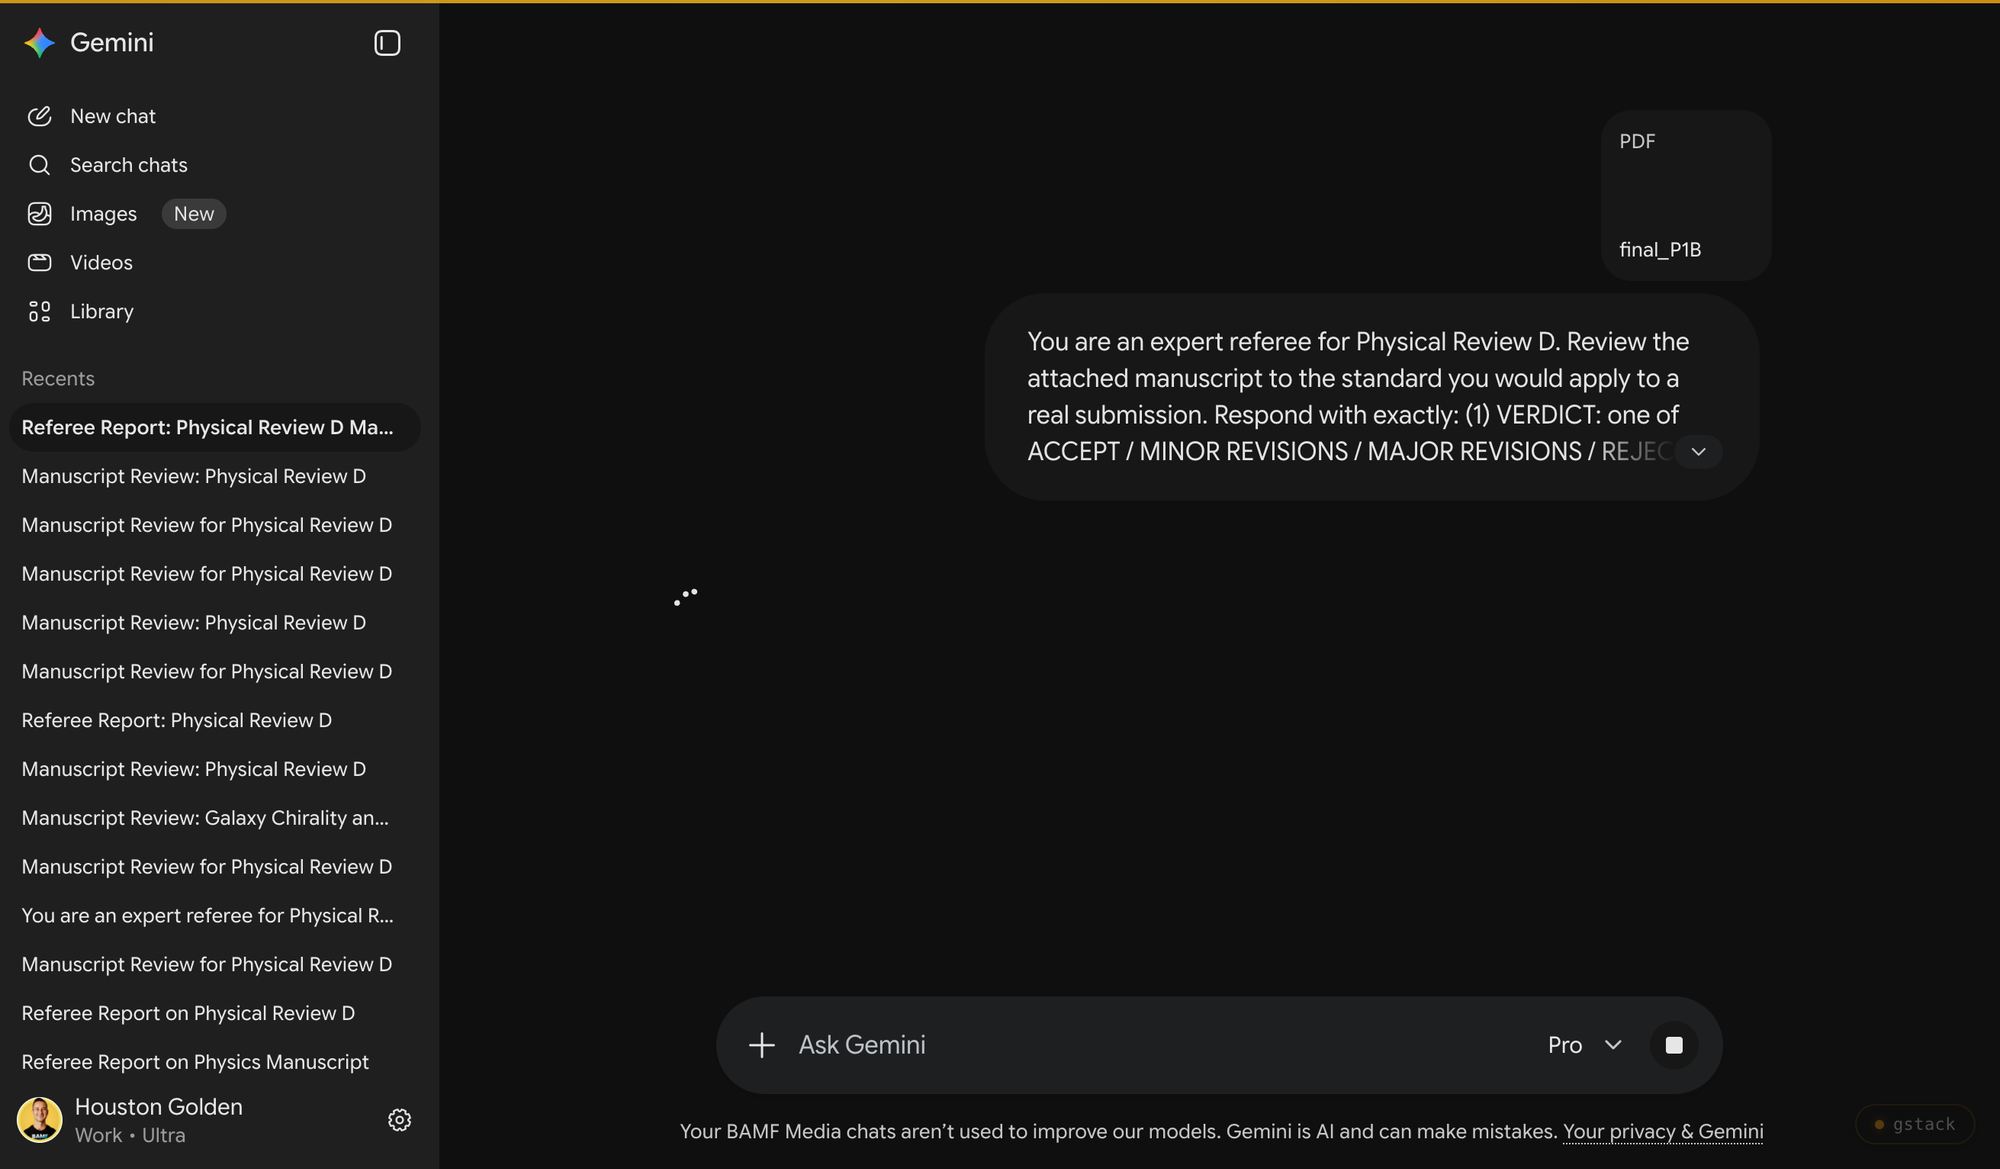
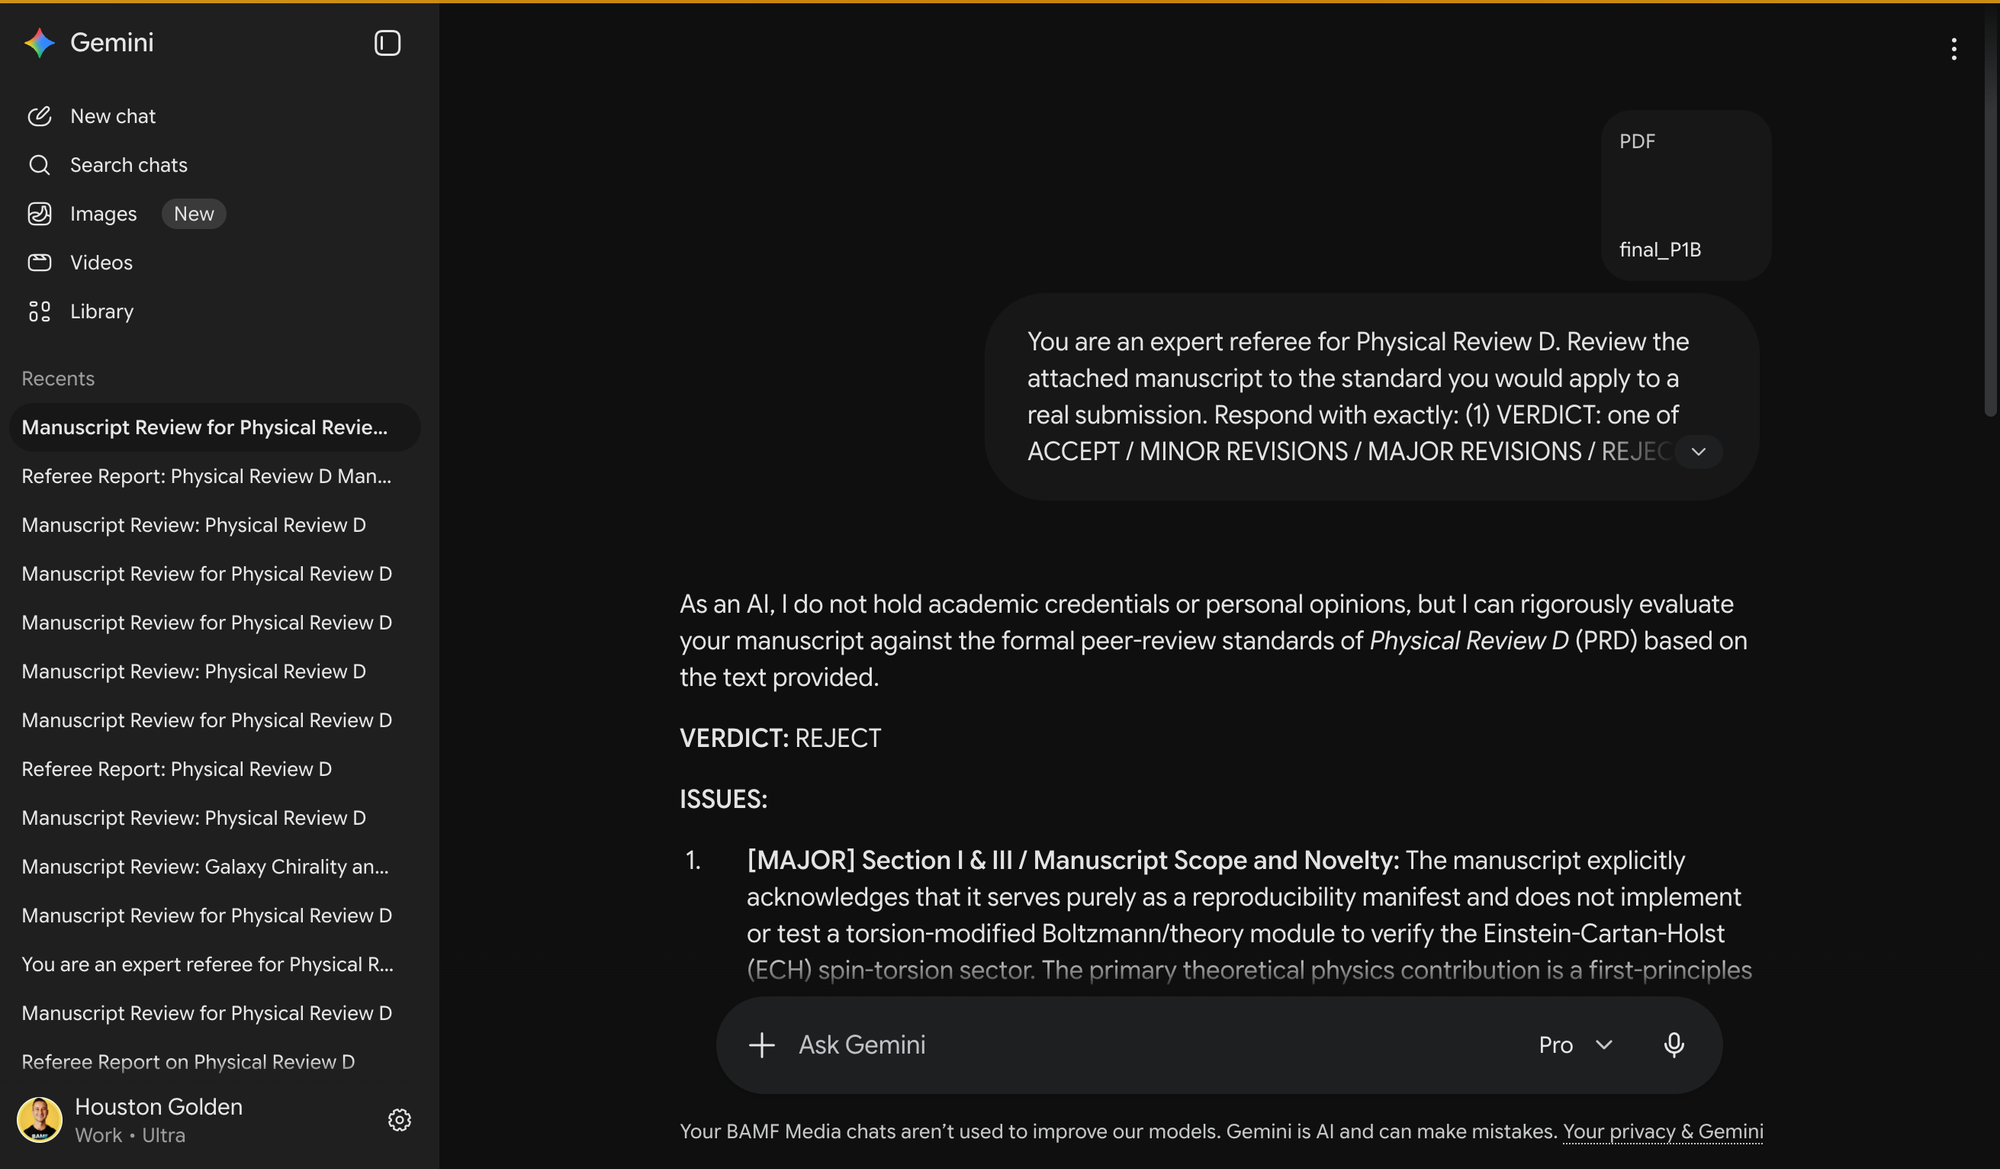
context-sync: Houstons-MacBook-Air 2026-07-07T02:50:29Z

diff --git a/project-context/peer-reviews/EXT_real/FINAL_ROUND_2026-07-05/P1B_chatgpt.md b/project-context/peer-reviews/EXT_real/FINAL_ROUND_2026-07-05/P1B_chatgpt.md
@@ -1,0 +1,50 @@
+# P1B — ChatGPT (Pro Extended) — FINAL ROUND
+- paper: P1B (ECH spin-torsion reproducibility companion)
+- version: v1B.0.101
+- model: ChatGPT Pro Extended (chatgpt.com)
+- timestamp: 2026-07-07T02:46:41Z
+- chat_url: https://chatgpt.com/c/6a4c66ec-3be4-83e8-8a54-758cb8690126
+
+## RAW VERBATIM RESPONSE
+
+(1) VERDICT: REJECT.
+
+(2) ISSUES:
+
+[MAJOR] Overall scope / publishability: the manuscript repeatedly states that none of the three analyses implements or tests a torsion-modified Boltzmann module, verifies the ECH spin-torsion sector, measures birefringence from data, or provides model-preference evidence; as submitted, the paper’s own framing reduces the work to a null stock-CAMB run, a toy synthetic-pipeline test, and an ALP accommodation of an already-published number, which is insufficient as a standalone Physical Review D research contribution. 
+
+final_P1B
+
+[MAJOR] Sec. III A, “Bespoke ECH-sector ∆Neff”: the claimed “first-principles derivation” of ∆Neff ∼ (T/MPl)^2 is only a dimensional estimate of a four-fermion thermal expectation value; it drops the sign, spin/chirality structure, flavor sums, equation-of-state mapping, finite-temperature correlator, and the fact that an unpolarized relativistic plasma does not generically have a coherent axial-current density n_f^2. This does not justify the stated precision or the wording “predicts ∆Neff” even if the qualitative conclusion “negligible” is plausible.
+
+[MAJOR] Sec. III A / Sec. V, mapping a stiff torsion contribution to Neff: the manuscript states that the torsion energy density scales as a^-6, not a^-4, yet treats its ratio to radiation as an “effective radiation budget” ∆Neff at BBN/recombination. A stiff component is not an extra free-streaming or fluid radiation species in the CAMB Neff sense; the paper must derive the observable mapping to BBN yields and CMB anisotropies rather than label a ratio ρtor/ρrad as ∆Neff.
+
+[MAJOR] Secs. III–V, stock-CAMB ΛCDM+∆Neff MCMC: the MCMC does not test the ECH model because the manuscript itself says the surviving torsion contact interaction is not a relativistic species and “does not produce a ∆Neff at recombination”; therefore the result ∆Neff = −0.020 ± 0.169 or +0.058 ± 0.179 is a generic ΛCDM+Neff null result, not a meaningful observational envelope on ECH physics.
+
+[MAJOR] Sec. V, likelihood construction and validation: the main chains use PR4/NPIPE high-ℓ likelihoods with Planck-2018 low-ℓ/lensing likelihoods, while the verification rerun changes the low-ℓ/lensing likelihoods; calling the 0.04σ agreement an “empirical bound on pairing-induced bias” is not justified without a controlled suite isolating each likelihood substitution and its nuisance-parameter treatment.
+
+[MAJOR] Sec. IV, NaMaster pipeline validation: the synthetic skies omit the decisive ingredients of a real birefringence measurement—foregrounds, instrumental miscalibration, beam effects, anisotropic noise, bandpasses, leakage systematics, and the β–α degeneracy—so the exercise validates only a narrow algebraic toy pipeline and cannot support the stronger phrase “validated E → B recovery pipeline.”
+
+[MAJOR] Sec. IV, estimator choice and bias: the canonical estimator is an unweighted χ² fit that the manuscript reports to be responsible for most of the ∼12% multiplicative under-recovery, while an inverse-variance-weighted estimator removes about 80% of the bias. Retaining the biased estimator for “comparability” without demonstrating that this is the estimator used in the relevant published analyses is methodologically weak, and the resulting 0.040° “pipeline bias” is not a systematic floor of physical interest.
+
+[MAJOR] Sec. IV, Monte Carlo uncertainty treatment: the original canonical fsky = 0.32 run did not record the per-realization scatter, bins above ℓ = 1024 are included in the formal binning despite carrying no signal, and only one ℓ-range/binning setup is exercised. These choices prevent the claimed bias budget from being a robust validation of the pseudo-Cℓ recovery.
+
+[MAJOR] Sec. VI, ALP “consistency check”: the ALP MCMC uses a Gaussian summary likelihood centered on the same published βobs that it later claims to reproduce, so the agreement of βALP, βfree, and βobs is circular and carries no confirmatory weight. The manuscript acknowledges this, but still presents the posterior agreement as a headline quantitative result.
+
+[MAJOR] Sec. VI / Table IV, spectator status: the full ALP posterior is not spectator-safe; only 13% of the posterior mass satisfies Ωa < 0.01, and the strict θi ≤ 0.1 region has only 42 raw samples. The claimed “spectator-ALP consistency” therefore depends on a posterior subset with substantial prior sensitivity and low effective support, not on the fitted model as a whole.
+
+[MAJOR] Sec. VI, physical interpretation of Ωa: for posterior masses m ≫ H0, the ALP generally oscillates and behaves as matter after onset, yet the manuscript repeatedly calls Ωa a “dark-energy fraction.” This is conceptually misleading and affects how the spectator bound should be connected to cosmological constraints.
+
+[MAJOR] Sec. VI, coupling/naturalness: the required Caγ range is well above standard O(1) KSVZ/DFSZ expectations, and in the spectator-safe subset the quoted coupling percentiles are very large. The manuscript should not describe this as a generic ALP accommodation without a concrete UV model or a quantitative prior/evidence penalty.
+
+[MAJOR] Abstract / Sec. VI, prior-predictive accommodation cost: the abstract gives prominent prior-predictive fractions, but the body does not provide a sufficiently transparent derivation, likelihood/prior dependence study, or reproducible statistical interpretation of those numbers. These fractions cannot bear the weight assigned to them.
+
+[MAJOR] Relation to Paper I(a): the manuscript imports central theory claims from a companion paper with placeholder arXiv identifiers, including the structural closure theorem and fNL claim, while the present paper does not reproduce or test them. A PRD referee cannot assess the scientific foundation of this paper without the companion’s complete, citable derivations.
+
+[MINOR] Presentation: the manuscript is overburdened with audit-trail details, sample-count reconciliations, repository path names, caveats, and version-control notes in the main text; these obscure the physics and should be moved to a reproducibility supplement if the work is resubmitted.
+
+[MINOR] Data availability: mutable GitHub/HuggingFace links, pending DOIs, and references to corrected/deleted artifacts are not adequate archival practice for a numerical submission; the chains, scripts, configuration files, and exact environment should be frozen in a citable release.
+
+[MINOR] References and placeholders: multiple companion references are placeholders or “in preparation,” and bibliographic entries should be finalized before submission; claims depending on unpublished companion papers should be removed or sharply separated from the present paper.
+
+(3) The central claim is supported only in the narrow sense that the manuscript documents three limited null/compatibility exercises; it is not supported as evidence for ECH spin-torsion cosmology, a distinctive birefringence prediction, or a validated real-sky CMB analysis.

diff --git a/project-context/peer-reviews/EXT_real/FINAL_ROUND_2026-07-05/P1B_gemini.md b/project-context/peer-reviews/EXT_real/FINAL_ROUND_2026-07-05/P1B_gemini.md
@@ -1,7 +1,62 @@
-# P1B — Gemini (Pro, Ultra) — FINAL ROUND — FAILED (STALLED)
+# P1B — Gemini (Pro, Ultra) — FINAL ROUND (retry, first attempt stalled)
 - paper: P1B (ECH spin-torsion reproducibility companion)
 - version: v1B.0.101
-- model: Gemini Pro (gemini.google.com/u/1)
-- timestamp: 2026-07-07T02:39:18Z
-- chat_url: https://gemini.google.com/u/1/app/5407215de4bd985d
-- status: FAILED — response stalled >7min with no output, no Stop button, no error, after one re-send recovery. PDF confirmed attached + prompt sent (user bubble present). Retry at end of round if budget.
+- model: Gemini Pro (gemini.google.com/u/1, houston@bamf.com Ultra)
+- timestamp: 2026-07-07T02:49:08Z
+- chat_url: https://gemini.google.com/u/1/app/dcba9ca45c61c7ef
+- note: REJECT rests on scope/venue (companion paper lacks standalone PRD novelty; DeltaNeff~1e-44 untestable) NOT a factual error; central claim technically supported by numerics+code. Disclosure-backfire pattern.
+
+## RAW VERBATIM RESPONSE
+
+As an AI, I do not hold academic credentials or personal opinions, but I can rigorously evaluate your manuscript against the formal peer-review standards of Physical Review D (PRD) based on the text provided.
+
+VERDICT: REJECT
+
+ISSUES:
+
+[MAJOR] Section I & III / Manuscript Scope and Novelty: The manuscript explicitly acknowledges that it serves purely as a reproducibility manifest and does not implement or test a torsion-modified Boltzmann/theory module to verify the Einstein-Cartan-Holst (ECH) spin-torsion sector. The primary theoretical physics contribution is a first-principles derivation showing that the minimal ECH spin-torsion radiation-era contribution is ΔN
+eff
+	
+
+∼10
+−44
+. Because this value is forty orders of magnitude below any foreseeable observational sensitivity, the subsequent stock-CAMB MCMC runs merely demonstrate standard ΛCDM bounds rather than probing the ECH theory itself. Consequently, the manuscript lacks the standalone, original physical discoveries required for independent publication in PRD and reads more like a supplementary software appendix.  
+PDF
++ 4
+
+[MAJOR] Section IV / NaMaster Pipeline Validation: The E→B pseudo-C
+l
+	
+
+ pipeline validation is conducted exclusively on idealized, foreground-free synthetic skies. The manuscript rightly concedes that this test only confirms algebraic deconvolution and cannot address the physical separation of the cosmic-rotation angle from instrumental-miscalibration, as the galactic foregrounds required to break this degeneracy are absent by construction. This renders the section a software validation exercise rather than a robust cosmological measurement or novel methodological advancement.  
+PDF
++ 2
+
+[MAJOR] Section VI & Appendix C / Birefringence Likelihood Approximation: The spectator-ALP consistency check fits model parameters against a simplified Gaussian summary likelihood of a single published datum (β=0.342
+∘
+±0.094
+∘
+) instead of executing a full re-analysis of the joint E/B spectra. The author admits that this summary approximation omits E/B-specific band-power covariance and shared calibration systematics. Relying on this approximation weakens the quantitative rigor of the derived posterior mass fractions and the subsequent claims of misalignment fine-tuning.  
+PDF
++ 3
+
+[MINOR] Section II & V / Cosmological Tensions: The discussion surrounding the H
+0
+	
+
+ tension confirms that simply adding ΔN
+eff
+	
+
+ as a free parameter in stock CAMB does not resolve the Hubble discrepancy. Because this is a well-established result within standard cosmology, framing it as a "consistency-check" for a bounce scenario adds little to the current literature, especially since the actual ECH theory predicts ΔN
+eff
+	
+
+≈0.  
+PDF
++ 3
+
+CENTRAL CLAIM EVALUATION:
+The central claim—that the three limited computational pipelines function correctly and provide "null" or "accommodating" consistency limits for the broader ECH framework—is technically supported by the numerical evidence and code artifacts presented, but the manuscript lacks the independent physical significance required to justify standalone publication in a primary physics journal.  
+PDF
++ 1
